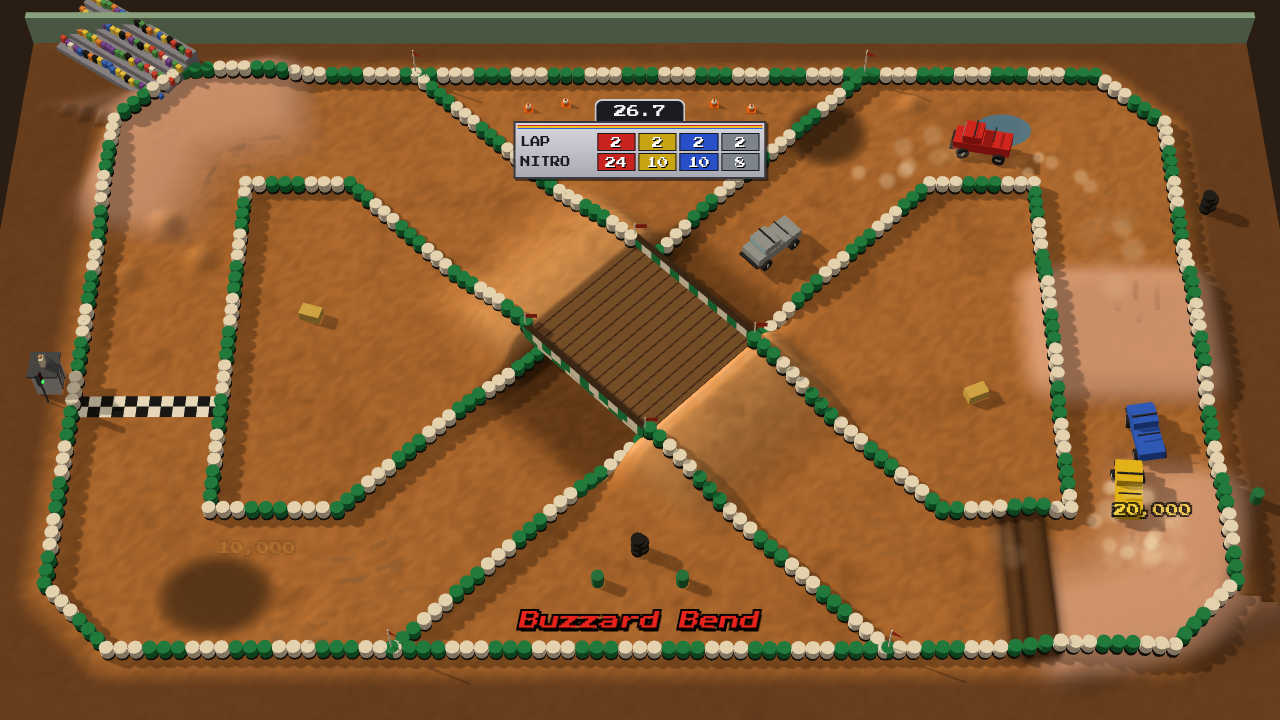
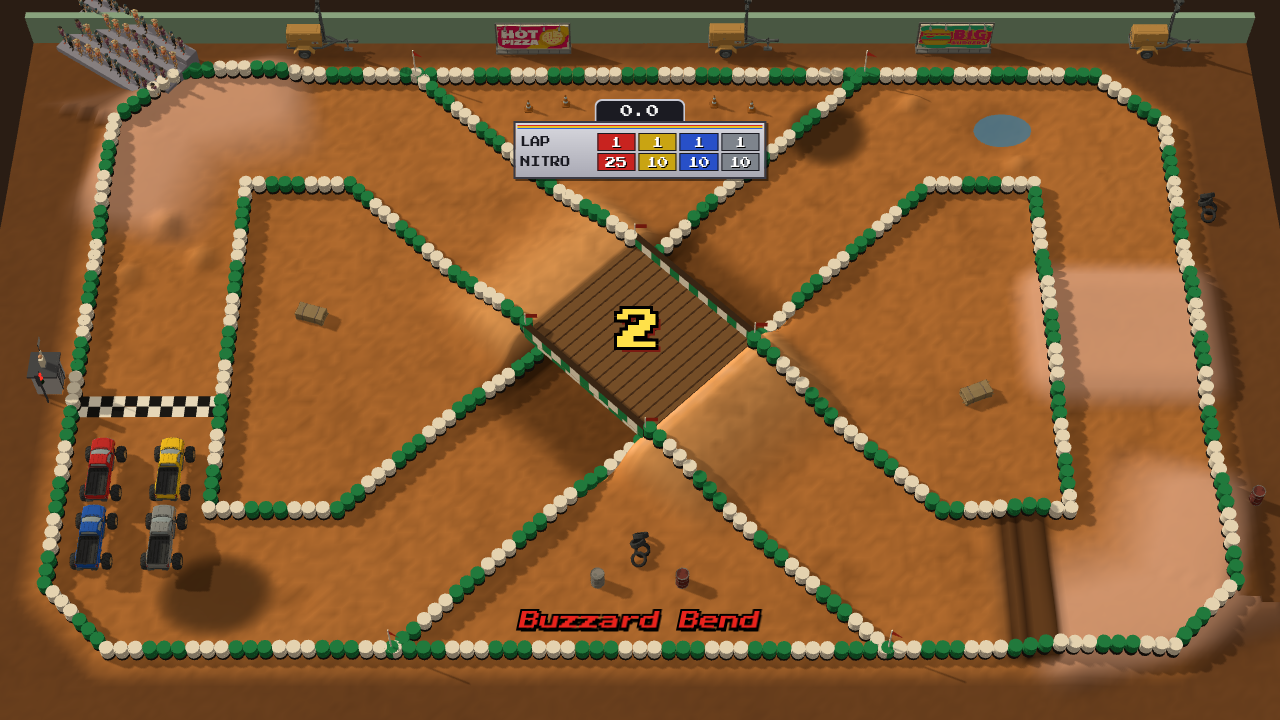
Docs: models table, sizes (8.63 → 4.37 MB), crowd and cost; FEEDBACK OR-FB-003..008/010..012 verified, OR-FB-014/015 filed; screenshots

diff --git a/docs/DESIGN.md b/docs/DESIGN.md
@@ -44,10 +44,11 @@ src/
     roster.ts        the four trucks (colours, our driver names, skills), start nitros, prize money
     pickups.ts       money bags and nitro bottles on the racing line, escalating values
     events.ts        the game event bus (audio subscribes here)
-    models.ts        public/models/models.json (ssg model apply) when present: modelIndex(), loadModel(name)
+    models.ts        public/models/models.json (ssg model apply) when present: modelIndex(), loadModel(name) (with the
+                     MeshoptDecoder), withVariant() (KHR_materials_variants), loadTruckModels()
     truck-view.ts    the truck's look: the generator's GLB with manifest-driven wheels, or the box placeholder
-    characters.ts    the generator's Synty characters: Character (clone + mixer, play by clip), bakePose()
-    crowd.ts         the grandstand fans: a few skinned, the rest baked poses instanced; cheers on the event bus
+    characters.ts    the generator's Synty characters: Character (clone + mixer, play by clip), loadPoses()
+    crowd.ts         the grandstand fans: a few skinned, the rest the generator's baked poses instanced; cheers
   fx/
     particles.ts     pooled instanced billboards: dust, water splash, mud spray, nitro smoke
     skids.ts         skid-mark decals: a ring buffer of instanced ground segments that fade out
@@ -412,22 +413,30 @@ afterwards: `__HAS_MODELS__` (vite.config.ts) is decided at server start, so a m
 
 | Name | Asset | Notes |
 |---|---|---|
-| `truck_red/blue/yellow/grey` | `POLYGON_Palm_City/SM_Veh_Pickup_01` + attach `SM_Veh_Pickup_Lift_01` | tint #c62828 / #1e5bc6 / #f2c618 / #8a8f94, `origin: axle-centre`, `fit: { length: 4.5 }`, 1024 px |
+| `truck` | `POLYGON_Palm_City/SM_Veh_Pickup_01` + attach `SM_Veh_Pickup_Lift_01` | `variants` red #c62828 / blue #1e5bc6 / yellow #f2c618 / grey #8a8f94 in one GLB, `origin: axle-centre`, `fit: { length: 4.5 }`, 1024 px, `compress: meshopt` (585 KB) |
 | `tire_pile`, `tire_stack` | Apocalypse `SM_Prop_Tire_Pile_01`, BattleRoyale `SM_Prop_TireStack_01` | kind `tyre_pile` (variant by position) |
 | `barrel`, `barrel_coloured` | Apocalypse `SM_Prop_Barrel_01`, `SM_Prop_Barrel_Coloured_01` | kind `barrel` |
 | `hay_bale` | War `SM_Prop_Hay_Bale_01` | kind `hay_bale` |
 | `tire`, `cone`, `barrier` | Apocalypse `SM_Prop_Tire_01`, Palm City `SM_Prop_Cone_01`, `SM_Prop_Barrier_01` | kinds `tyre`, `cone`, `barrier`, ready for new tracks |
 | `floodlight` | Apocalypse `SM_Prop_Floodlights_01` (a light-mast trailer) | stadium dressing along the back wall |
-| `driver_red/yellow/blue/grey` | City Characters `SK_Character_Biker`, BattleRoyale `Character_RedneckMale_01`, Apocalypse `SK_Chr_Mechanic_Female_01`, City Characters `SK_Character_Roadworker` | podium drivers; clips idle, victory, three waves, slumped (see Presentation) |
-| `fan_a/b/c` | City Characters `SK_Character_SummerGirl`, `SK_Character_Jock`, `SK_Character_HipsterGuy` | grandstand crowd; clips idle and two waves |
+| `billboard_pizza/burgers/holiday/donuts` | City `SM_Prop_Billboard_01` + attach `SM_Prop_Billboard_Sign_02/06/03/04` | adverts between the floodlights on the back wall; 1024 px so the art reads (54–260 KB) |
+| `driver_red/yellow/blue/grey` | City Characters `SK_Character_Biker`, BattleRoyale `Character_RedneckMale_01`, Apocalypse `SK_Chr_Mechanic_Female_01`, City Characters `SK_Character_Roadworker` | podium drivers; clips idle, victory, three waves, slumped, qualified `@Masculine` / `@Feminine` (see Presentation); meshopt |
+| `fan_a/b/c` | City Characters `SK_Character_SummerGirl`, `SK_Character_Jock`, `SK_Character_HipsterGuy` | the 6 skinned crowd fans; clips idle and two waves (`@Feminine` / `@Masculine`), `simplify: 0.5`, meshopt |
+| `crowd_a/b/c` | the same three characters | `poses` (`idle` POLY_IDL_Base at 0.6 s, `cheer_a`/`cheer_b` the two-arm wave at 0.12 / 0.5 s), `simplify: 0.5`, meshopt: static meshes for the instanced crowd |
 | `trophy` | Icons `SM_Icon_Trophy_01` | the winner's cup on the podium |
 
 Props default to 256 px WebP textures (Synty atlases are flat colour swatches; 256 px looks the same at the race
-camera), trucks 1024 px WebP. Tried and dropped: billboards (their sign art does not come through, OR-FB-005), a
-stadium light mast (the light-pole pieces are modular parts, OR-FB-007), the Apocalypse tyre wall and a traffic
+camera), the truck and the billboards 1024 px WebP (the exporter crops each atlas to the region its UVs use).
+Characters, the truck and the crowd poses are `compress: "meshopt"`, so `loadModel` always sets three.js's
+`MeshoptDecoder` on its GLTFLoader. Every clip name is qualified by gender, so `manifest.warnings` is empty for every
+model. Tried and dropped: a stadium light mast (the light-pole pieces are modular parts, OR-FB-007), the Apocalypse tyre wall and a traffic
 light for the start tree (see below).
 
-**Trucks** (`race/truck-view.ts`). `loadTruckModels()` loads `truck_<colour>`. The specs ask the exporter for
+**Trucks** (`race/truck-view.ts`). The four colours are one GLB, `truck`, with four paint variants
+(KHR_materials_variants: the geometry once, a tinted texture and material per variant). `loadTruckModels()` loads it
+once and makes each colour with `withVariant(model, colour)`: the docs/MODELS.md recipe (the glTF parser's
+`associations` give each mesh's primitive, whose variant mapping names the material to load), applied to a clone of
+the scene, so geometry is shared and each variant's material is shared by its clones. The spec asks the exporter for
 `fit: { length: 4.5 }`, the physics chassis length, so the GLB arrives at the game's size: 4.5 m long, 2.53 m wide
 over the tyres, a 2.85 m wheelbase (physics 2.9 m) and 0.55 m wheels. `TruckView` draws it in a holder scaled by
 `TRUCK_LOOK = 1.12`, a style choice: the original draws its trucks chunky so they read at the far camera. The look is
@@ -441,7 +450,8 @@ the low sun. Without models the box truck is drawn.
 
 **Props** (`track/props-view.ts`). `dressTrack(track)` runs from the Session constructor (fire and forget). It maps
 each track JSON `props` entry's `kind` to model names through `PROP_MODELS`, adds floodlight trailers along the back
-wall, builds one `InstancedMesh` per GLB mesh per model with every placement, and then hides the build.ts
+wall with an advert billboard between each pair (pizza, burgers, holiday, donuts in turn, standing just in front of
+the wall's face), builds one `InstancedMesh` per GLB mesh per model with every placement, and then hides the build.ts
 placeholders it replaced (kinds not in the table keep theirs). Props are drawn at `PROP_LOOK = 1.4` (floodlights
 1.2 × that) to match the 1 m wall tyres and the chunky trucks.
 
@@ -461,10 +471,18 @@ Each truck is 16.7k triangles in 14 meshes (doors, glass, wheels, lift kit); pro
 per model however many are placed. SwiftShader is CPU-bound and runs ~5 fps either way (the checks use
 `advance()`); on a real GPU the scene is well inside budget.
 
-**Bundle** (before the OR4 characters: `dist/` is now 15 MB with 9.2 MB of models, the 7 characters + trophy
-adding 3.5 MB): `dist/` was 11 MB: the JS bundle 5.2 MB (1.9 MB gzipped; mostly Rapier's WASM inlined) and
-`dist/models/` 5.9 MB, of which the four trucks are 4 × 1.37 MB (0.66 MB gzipped each, the same geometry four
-times, OR-FB-006) and the nine props 0.7 MB. With the default PNG textures the models were 19.6 MB (OR-FB-004).
+**Bundle** (exporter v6): `dist/` is 9.6 MB: the JS bundle 5.2 MB (1.9 MB gzipped; mostly Rapier's WASM inlined)
+and `dist/models/` 4.4 MB for 25 models. The GLBs total 4.37 MB: the truck 585 KB (all four colours, meshopt; 441 KB
+gzipped), the four drivers 1.37 MB, the three skinned fans 0.51 MB, the three crowd pose sets 0.61 MB, the four
+billboards 0.83 MB and the nine props + trophy 0.47 MB. The same 21 models as before the billboards and crowd poses
+would be 2.93 MB.
+
+| models | GLBs |
+|---|---|
+| 4 tinted truck GLBs, PNG textures (before OR-FB-004) | 19.6 MB (17 models) |
+| 4 tinted trucks (1.37 MB each), 256 px webp props, skinned fans, exporter v5 | 9.63 MB (21 models) |
+| the same specs re-exported by exporter v6 (cropped atlases) | 8.63 MB (21 models) |
+| one `variants` truck + meshopt, qualified clips, simplified fans, crowd `poses`, billboards | 4.37 MB (25 models) |
 
 ## Presentation (OR4)
 
@@ -487,35 +505,46 @@ parked at `TruckView.groundLift`, turned a little), both at `TRUCK_LOOK`.
 Drivers by truck colour (`driver_<colour>` in ssg.models.json): red `SK_Character_Biker` (City Characters),
 yellow `Character_RedneckMale_01` (BattleRoyale), blue `SK_Chr_Mechanic_Female_01` (Apocalypse), grey
 `SK_Character_Roadworker` (City Characters, hi-vis). Every driver carries all six clips (any of them can finish
-anywhere), 0.5–0.7 MB each. `main.ts` preloads them after boot. The trophy follows the hand bone's world
+anywhere), 0.32–0.39 MB each with meshopt. The specs name the Idles-pack clips with the driver's gender
+(`POLY_IDL_Wave_Large_Loop@Feminine` for the mechanic); the GLB keeps the qualified name, and `findClip` matches the
+base name in `CLIPS` to it, so the game code names clips without the qualifier. `main.ts` preloads them after boot. The trophy follows the hand bone's world
 position rather than being parented to it, so it never takes the bone's axes. `window.__or.podium()` gives
 `stop()`, `tick(dt)` (step the clips by hand for frame captures) and `info` (draw calls, triangles).
 
 ### Crowd (`race/crowd.ts`)
 build.ts names its grandstand group `grandstand` and its box crowd `crowd` (the hook); the Session's `Crowd`
-hides the boxes once the fans have loaded and stands a fan on every other box spot (44 on the four benches).
-Three fan models (`fan_a/b/c`: City Characters SummerGirl, Jock, HipsterGuy with `POLY_IDL_Base`,
-`POLY_IDL_Wave_Double_Loop`, `POLY_IDL_Wave_Large_Loop`) at `FAN_LOOK = 1.05`:
-- 6 fans along the front rows are skinned `Character`s with their own mixer (idle; when cheering a two-arm or a
-  large wave, cross-faded).
-- The other 38 are baked poses (`bakePose`, OR-FB-012): each fan model is posed with a mixer three times (idle,
-  two frames of the two-arm wave) and its skinned vertices are transformed once on the CPU into a static mesh. One
-  InstancedMesh per fan model per pose; while cheering, each fan flips between the two wave frames at its own
-  phase (~4 Hz) and hops a little, and the matrices are re-packed so each mesh draws only the fans in its pose.
+hides the boxes once the fans have loaded and stands a fan on every other box spot (44 on the four benches), at
+`FAN_LOOK = 1.05`. Three characters (City Characters SummerGirl, Jock, HipsterGuy), each exported twice:
+- `crowd_a/b/c` (`poses`): the generator bakes each into three static meshes, one node per pose: `idle`
+  (`POLY_IDL_Base` at 0.6 s), `cheer_a` and `cheer_b` (`POLY_IDL_Wave_Double_Loop` at 0.12 s and 0.5 s), no skeleton.
+  `loadPoses()` returns each pose's mesh parts with their matrix in the export (the meshopt child carries the
+  dequantising transform). One InstancedMesh per fan model per pose; while cheering, each fan flips between the two
+  cheer frames at its own phase (~4 Hz) and hops a little, and the matrices are re-packed so each mesh draws only the
+  fans in its pose. 38 fans.
+- `fan_a/b/c` (skinned, clips idle and two waves): 6 fans along the front rows are `Character`s with their own mixer
+  (idle; when cheering a two-arm or a large wave, cross-faded). They keep the front rows moving smoothly between
+  the frame-flipping instanced fans, at 6 draw calls, so they stay.
+- Both are `simplify: 0.5` (~1.1k triangles a fan instead of ~2.3k): from the race camera and in a close-up of the
+  stand the faceted look is unchanged (docs/screenshots/crowd.png).
 - Cheers: `finish` (any truck, 4 s) and `land` with `airTime ≥ 0.5 s` (2.5 s), from the event bus; a new cheer
   extends the current one. `window.__or.crowd()` gives `cheer(s)`, `cheering`, `drawCalls()`, `ready`.
-- The baked geometry is cached for the page; RaceScene.dispose detaches the crowd before it frees the scene.
+- The pose geometry belongs to the cached model; RaceScene.dispose detaches the crowd before it frees the scene.
+- Before OR-FB-012 was fixed the game baked the poses itself (`bakePose`: a mixer per pose and the skin applied to
+  every vertex on the CPU at load).
 
-**Cost** (Rattlesnake race, 4 trucks, SwiftShader 1280×720, both passes: main + shadow map):
+**Cost** (Rattlesnake race, 4 trucks, SwiftShader 1280×720, both passes: main + shadow map; the crowd's own
+triangles are per pass):
 
-| | draw calls | triangles | fps (SwiftShader) |
-|---|---|---|---|
-| box crowd (88 boxes) | 204 | 366k | 4 |
-| fans, idle (3 instanced + 6 skinned per pass) | 220 | 562k | 4 |
-| fans, cheering (6 instanced + 6 skinned per pass) | 226 | 562k | 4 |
+| | draw calls | triangles | crowd triangles | fps (SwiftShader) |
+|---|---|---|---|---|
+| box crowd (88 boxes), no billboards | 204 | 366k | | 4 |
+| game-baked fans, full detail, idle (before) | 220 | 562k | ~98k | 4 |
+| game-baked fans, full detail, cheering (before) | 226 | 562k | ~98k | 4 |
+| exported poses + simplify 0.5 + billboards, idle | 232 | 466k | 49.5k | 4.0 |
+| exported poses + simplify 0.5 + billboards, cheering | 238 | 466k | 49.5k | 4.0 |
 
-The fans add 16–22 draw calls and ~98k triangles per pass (Synty characters are ~1.8–2.6k triangles and
-`simplify` does not reduce them, OR-FB-011). SwiftShader is CPU-bound at ~4–5 fps either way.
+The fans now add 9–12 draw calls and ~49k triangles per pass (half of before); the four billboards add ~12 draw
+calls. SwiftShader is CPU-bound at ~4 fps either way, so the frame rate does not move there.
 
 ### DOS look (`engine/retro.ts`)
 Off by default. F2 cycles off → 256 colours → 16 colours → off (a toast says which); the title menu has a

diff --git a/FEEDBACK.md b/FEEDBACK.md
@@ -7,6 +7,7 @@ and never reuse a number; the `OR-` prefix keeps them apart from Solitary Strike
 Status: `open` → `triaged (TODO: …)` → `fixed (<commit>)` → `verified` (the game's workaround was removed).
 
 <!-- Template
+
 ## OR-FB-001 · <title>
 - Severity: blocks | workaround | polish        Milestone: OR1
 - Tried: `ssg model …` / MCP tool …
@@ -63,7 +64,8 @@ Status: `open` → `triaged (TODO: …)` → `fixed (<commit>)` → `verified` (
 - Workaround: none (`scripts/build-assets.mjs` documents the output shape it reads).
 - Suggested change: add `--json` to the help of `model apply` / `export` / `info`, and document the apply summary in
   docs/MODELS.md.
-- Status: triaged (TODO: OR-FB-003)
+- Status: verified (exporter v6, 2026-10-21). `ssg model --help`, `model preview --help` and the other subcommands list
+  `--json` under "Global Options"; `scripts/build-assets.mjs` reads the documented `{ dir, index, models, removed }`.
 
 ## OR-FB-004 · Default PNG textures make every prop GLB carry a whole atlas (~600 KB for a cone)
 - Severity: polish        Milestone: OR3
@@ -75,7 +77,9 @@ Status: `open` → `triaged (TODO: …)` → `fixed (<commit>)` → `verified` (
   trucks: 13 models = 5.7 MB (cone 36 KB, truck 1.37 MB), no visible difference at the race camera.
 - Suggested change: default to WebP, or pick the texture size by kind (props 256–512); optionally let `apply` write a
   pack's atlas once as a shared external texture that several GLBs reference.
-- Status: triaged (TODO: OR-FB-004)
+- Status: verified (exporter v6, 2026-10-21). Atlases are cropped to their UVs and webp by default: re-exporting the same
+  21 specs went from 9.63 MB to 8.63 MB of GLBs (cone 36 → 19 KB, barrel 35 → 23 KB, floodlight 200 → 195 KB). The
+  game keeps `"defaults": { "texSize": 256 }` so its characters stay small; the props would get 256 px by kind anyway.
 
 ## OR-FB-005 · Billboards export without their sign art
 - Severity: workaround        Milestone: OR3
@@ -88,7 +92,11 @@ Status: `open` → `triaged (TODO: …)` → `fixed (<commit>)` → `verified` (
 - Workaround: no billboards (`track/props-view.ts` comment); floodlight trailers dress the back wall instead.
 - Suggested change: bind sign/billboard materials to their own textures (or expose the texture choice in the spec,
   e.g. `textures: { slot: "Billboard_03" }`), and let `model info` show the materials and textures an export uses.
-- Status: triaged (TODO: OR-FB-005)
+- Status: verified (2026-10-21, after the City/Palm City re-ingest). `ssg model preview` of Palm City
+  `SM_Prop_Billboard_01` / `_02` and City `SM_Prop_Billboard_01` + `SM_Prop_Billboard_Sign_01..07` at `texSize: 1024`
+  shows each advert (Welcome to Palm City, Palms Estate / Bad Tooth, City Life, Hot Pizza, Tropical Holiday, Donuts,
+  Casino, Big Burgers, Polygonda). Four City billboards (`billboard_pizza/burgers/holiday/donuts`) now stand between the
+  floodlights on the back wall (`track/props-view.ts`), and the art reads from the race camera.
 
 ## OR-FB-006 · Four tints of one truck are four full copies of its geometry
 - Severity: polish        Milestone: OR3
@@ -98,7 +106,11 @@ Status: `open` → `triaged (TODO: …)` → `fixed (<commit>)` → `verified` (
 - Workaround: none (the game loads all four).
 - Suggested change: `tints: { red: "#c62828", … }` on one spec, written as one GLB with KHR_materials_variants, or
   a texture-only output per tint; separately, an option for meshopt/quantised geometry.
-- Status: triaged (TODO: OR-FB-006)
+- Status: verified (exporter v6, 2026-10-21). One `truck` spec with `variants` (red/blue/yellow/grey) and
+  `compress: "meshopt"`: one 585 KB GLB (441 KB gzipped) replaces 4 × 1.37 MB. `race/models.ts` loads it with the
+  MeshoptDecoder and gives each colour a scene clone with its variant's materials (`withVariant`, the
+  parser.associations recipe in docs/MODELS.md). `ssg model preview --variant blue` etc. show each colour; the race
+  grid and the podium show four colours. All models: 8.63 MB → 4.37 MB, with 4 billboards and 3 crowd pose sets added.
 
 ## OR-FB-007 · Prop search gives no hint that a hit is a modular piece or oddly scaled
 - Severity: polish        Milestone: OR3
@@ -112,7 +124,10 @@ Status: `open` → `triaged (TODO: …)` → `fixed (<commit>)` → `verified` (
 - Workaround: `POLYGON_Apocalypse/SM_Prop_Floodlights_01` (a light-mast trailer, 3.5 × 3.9 m) as the floodlight.
 - Suggested change: a size column (metres) in `ssg assets` / `search_assets`, and a modular-piece flag or a link to
   the assembled prefab when the pack has one.
-- Status: triaged (TODO: OR-FB-007)
+- Status: verified (2026-10-21). `ssg assets billboard --kind prop` has a `size m` column, and `--min-size`, `--max-size`,
+  `--no-modular` filter by it (`ssg assets "stadium light" --kind prop --min-size 5 --no-modular`). The size column
+  alone picked the billboards without a `model info` per hit. Small gap: `--no-modular` still lists City
+  `SM_Prop_Billboard_Sign_0N`, which are the sign panels of `SM_Prop_Billboard_01` (OR-FB-015).
 
 ## OR-FB-008 · `ssg model preview` fails when the web dev server is down, though the API serves the page itself
 - Severity: workaround        Milestone: OR4
@@ -127,7 +142,9 @@ Status: `open` → `triaged (TODO: …)` → `fixed (<commit>)` → `verified` (
 - Suggested change: when the server serves the web build itself, open the preview page from its own origin (or
   fall back to it when `SSG_WEB_URL` does not answer), and turn a connection error into one line that names the URL
   and the setting.
-- Status: open
+- Status: verified (2026-10-21). With nothing on 5180 (`/api/health` still says `webUrl: http://localhost:5180`), `ssg
+  model preview` renders through the API's own page: every new model in this pass was previewed first (the variant
+  truck in four colours, the crowd poses, seven billboards), 3–5 s each.
 
 ## OR-FB-009 · No clap, cheer, celebrate, defeat or seated clips
 - Severity: workaround        Milestone: OR4
@@ -142,7 +159,8 @@ Status: `open` → `triaged (TODO: …)` → `fixed (<commit>)` → `verified` (
   (`ssg.models.json`, `race/characters.ts` CLIPS). No driver is drawn in the cabs.
 - Suggested change: an animation pack (or Mixamo uploads) with clap, cheer/fist-pump, dejected, a seated idle and a
   seated driving pose; and synonyms in the clip search (cheer → wave/victory, sad → slumped/disappointed).
-- Status: open
+- Status: open (re-checked 2026-10-21: `ssg animations cheer|clap|celebrate|fist` still find nothing; the crowd's
+  cheer poses are frames of `POLY_IDL_Wave_Double_Loop`)
 
 ## OR-FB-010 · A clip name is ambiguous: Masculine and Feminine (and Polygon/Sidekick) variants share it
 - Severity: polish        Milestone: OR4
@@ -155,7 +173,11 @@ Status: `open` → `triaged (TODO: …)` → `fixed (<commit>)` → `verified` (
 - Workaround: none (both look acceptable at podium size).
 - Suggested change: pick the variant that matches the character's gender by default, accept an id or a qualifier
   (`POLY_IDL_Wave_Large_Loop@Feminine`), and put `{ id, gender, rig, pack }` in the manifest's clip entry.
-- Status: open
+- Status: verified (exporter v6, 2026-10-21). Without qualifiers every character export warned `clip POLY_IDL_Base: 2
+  clips match; used POLY_IDL_Base@Masculine (#174, ANIMATION_Idles)…` (it already picked the character's gender). The
+  specs now say `POLY_IDL_…@Masculine` / `@Feminine` per character; the manifests carry `source: { id, pack, name,
+  variant, set }`, the GLB keeps the qualified name (`race/characters.ts findClip` matches the base name) and
+  `manifest.warnings` is absent on all 25 models.
 
 ## OR-FB-011 · `simplify` does nothing on a skinned character (and says nothing)
 - Severity: polish        Milestone: OR4
@@ -164,7 +186,9 @@ Status: `open` → `triaged (TODO: …)` → `fixed (<commit>)` → `verified` (
 - Got: 2304 → 2274, 1814 → 1794, 2636 → 2612 triangles; new export ids, no `warnings`.
 - Workaround: the fans stay at full detail (the crowd is ~98k triangles per pass); the spec does not set `simplify`.
 - Suggested change: simplify skinned meshes too (keeping the skin weights), or say in `warnings` that it was skipped.
-- Status: open
+- Status: verified (exporter v6, 2026-10-21). `simplify: 0.5` on the fans (skinned `fan_a/b/c` and the `crowd_a/b/c`
+  poses): the 44-fan crowd went from ~98k to 49.5k triangles per pass, the skinned fans still animate, and the
+  faceted look holds in a close-up of the stand (docs/screenshots/crowd.png).
 
 ## OR-FB-012 · Crowds need static posed meshes; the game skins them on the CPU itself
 - Severity: workaround        Milestone: OR4
@@ -178,7 +202,10 @@ Status: `open` → `triaged (TODO: …)` → `fixed (<commit>)` → `verified` (
   model per pose (idle, two cheer frames) plus 6 skinned fans.
 - Suggested change: the `pose` spec field above; and character manifests could carry a posed bound too (the
   `bounds` are the T-pose: 2.05 × 1.86 × 0.37 m for a person, which is no use for spacing a crowd).
-- Status: open
+- Status: verified (exporter v6, 2026-10-21). `crowd_a/b/c` are `poses` exports (`idle` POLY_IDL_Base 0.6 s, `cheer_a`/`cheer_b`
+  POLY_IDL_Wave_Double_Loop 0.12 / 0.5 s), a node per pose; `race/crowd.ts` instances their meshes directly and
+  `bakePose()` is gone. The manifests' `bounds` are now posed (1.07 × 2.15 × 0.48 m with the arms up, 0.78 m wide at
+  idle, against the 2.05 m T-pose before). 6 skinned fans stay for life in the front rows.
 
 ## OR-FB-013 · No 3D trophy: the trophy props are flat icons
 - Severity: polish        Milestone: OR4
@@ -190,4 +217,29 @@ Status: `open` → `triaged (TODO: …)` → `fixed (<commit>)` → `verified` (
   the flatness does not show.
 - Suggested change: a pack gap note (a sports/stadium pack with trophies); `ssg assets` could tag icon-pack props
   as `icon` so a search can tell them from full props.
+- Status: open
+
+## OR-FB-014 · Previewing a `poses` export draws every pose on top of each other
+- Severity: polish        Milestone: OR4
+- Tried: `ssg model preview --spec crowd_a.json --out x.png` with a three-pose spec (idle, two cheer frames), then
+  `--pose cheer_a` (`error: unknown option '--pose'`) and `--variant cheer_a` (no variant).
+- Wanted: to look at each baked pose before using it, as `--variant` does for paint variants.
+- Got: one figure with all three poses overlaid (arms down and arms up at once), headed by the bounds of the
+  union. `preview` also has no `--pose`, `--poses`, `--simplify`, `--fit-*` or `--tex` flags (export has them), so
+  those only work through `--spec`.
+- Workaround: one throwaway single-`pose` spec per frame, previewed one by one (same export settings, different ids).
+- Suggested change: `--pose <name>` on preview for a `poses` export (or a contact sheet with one column per pose),
+  and the export flags on preview too.
+- Status: open
+
+## OR-FB-015 · `ssg assets --no-modular` lists the City billboard's sign panels
+- Severity: polish        Milestone: OR4
+- Tried: `ssg assets billboard --kind prop --no-modular`.
+- Wanted: whole models only.
+- Got: City `SM_Prop_Billboard_Sign_01..07` (4.2 × 2.03 × 0.12 m) and Apocalypse `SM_Prop_Billboard_Sign_0N`
+  are listed; they are the advert panels that docs/MODELS.md says to `attach` to `SM_Prop_Billboard_01` (the frame
+  alone has no sign).
+- Workaround: none needed (the docs say how to pair them).
+- Suggested change: flag sign panels as modular / attachment pieces, or have the search row for the frame say
+  `attach: SM_Prop_Billboard_Sign_01..07`.
 - Status: open
